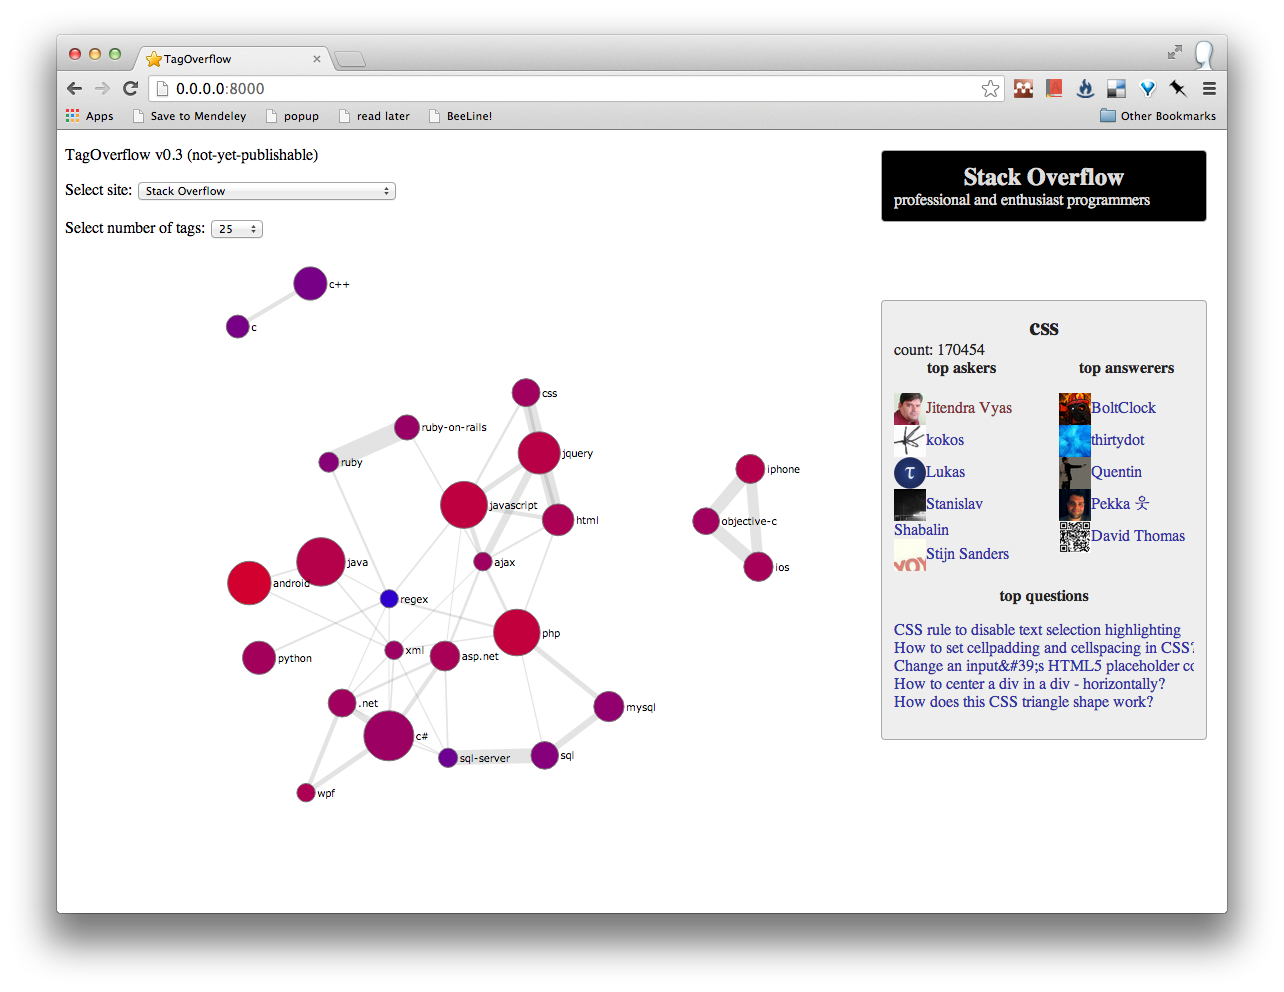
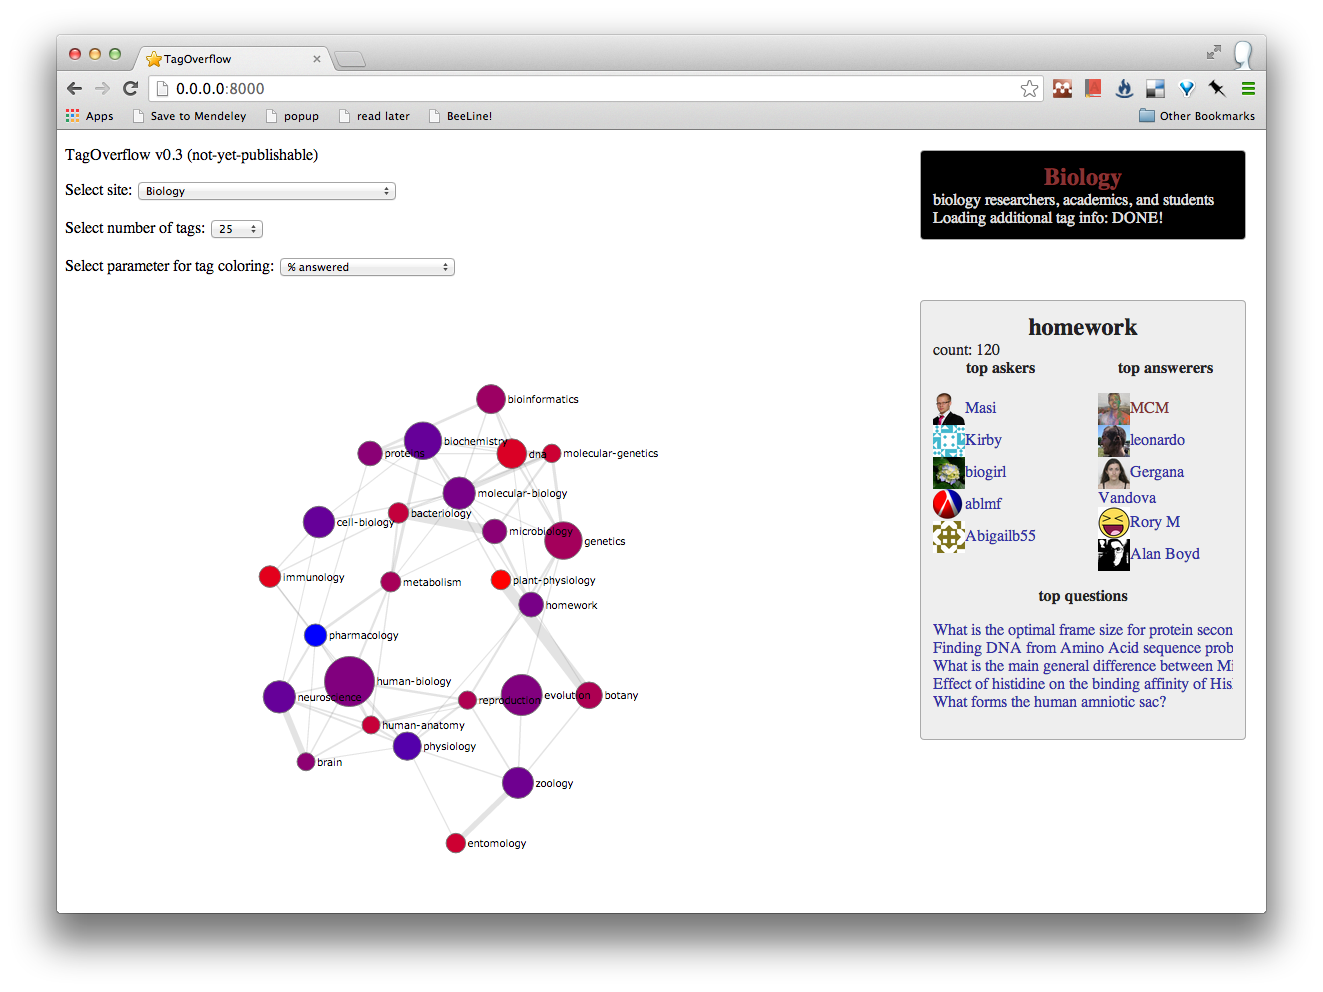
asynch calls: much faster and with progress bar

diff --git a/se_tags.js b/se_tags.js
@@ -193,9 +193,16 @@ var SeDataLoaderPerSite = function(siteName, tagLimit){
   // this.status = "Initializing...";
   this.siteName = siteName;
   this.tagLimit = tagLimit;
-  this.siteStats = fetchSiteStats(siteName)[0];
+  this.siteStats = null;
 
-  var nodes = fetchPopularTags(siteName, tagLimit);
+  this.run = function(){
+    this.siteStats = fetchSiteStats(siteName)[0];
+    $(".site_info #title").html(sitesDict[siteName].name);
+    $(".site_info #dscr").html(sitesDict[siteName].audience);
+    $(".site_info a").attr("href",sitesDict[siteName].site_url);
+    this.retriveTags();
+    this.retriveRelatedTags();
+  }
 
   this.tags = [];
   this.tagsDict = {};
@@ -221,7 +228,7 @@ var SeDataLoaderPerSite = function(siteName, tagLimit){
                    {site: siteName},
                    tagLimit,
                    this.putRelatedTagInDict,
-                   [tagName, this.relatedTagDict, this.tags.length]);
+                   [tagName, this.relatedTagDict, this.tags.length, this]);
     }
   };
 
@@ -239,15 +246,16 @@ var SeDataLoaderPerSite = function(siteName, tagLimit){
     }
   };
 
-  this.putRelatedTagInDict = function(x, tagName, targetDict, tagsLength){
+  this.putRelatedTagInDict = function(x, tagName, targetDict, tagsLength, that){
     targetDict[tagName] = x.items;
     var progress = Object.keys(targetDict).length;
     if (progress === tagsLength) {
-      console.log("Related tags: DONE!");
+      // console.log("Related tags: DONE!");
       $(".site_info #loading_status").html("Loading tag neighbors: DONE!");
-      // and we can fire something
+      that.processRelatedTags();  // onDone();  // this.processRelatedTags();
+      // f--king with references
     } else {
-      console.log("Related tags: " + progress + "/" + tagsLength);
+      // console.log("Related tags: " + progress + "/" + tagsLength);
       $(".site_info #loading_status").html("Loading tag neighbors: " + (progress) + "/" + tagsLength + "...");
     }
   };
@@ -256,11 +264,11 @@ var SeDataLoaderPerSite = function(siteName, tagLimit){
     targetDict[tagName] = x.items;
     var progress = Object.keys(targetDict).length;
     if (progress === tagsLength) {
-      console.log("Additional tag info: DONE!");
+      // console.log("Additional tag info: DONE!");
       $(".site_info #loading_status").html("Loading additional tag info: DONE!");
       // and we can fire something
     } else {
-      console.log("Additional tag info: " + progress + "/" + tagsLength);
+      // console.log("Additional tag info: " + progress + "/" + tagsLength);
       $(".site_info #loading_status").html("Loading additional tag info: " + (progress) + "/" + tagsLength + "...");
     }
   };
@@ -276,8 +284,6 @@ var SeDataLoaderPerSite = function(siteName, tagLimit){
       for (var i = 0; i < relatedTags.length; i++){
         var tag2info = relatedTags[i];
         var tag2 = tag2info.name;
-        console.log(tag1 + " " + tag2);
-        console.log(tag2 in this.tagsDict);
 
         if ((tag2 in this.tagsDict) && (tag1 < tag2))
         // isnt this order stuff making as loose some entries?
@@ -289,8 +295,7 @@ var SeDataLoaderPerSite = function(siteName, tagLimit){
                       target_name: tag2,
                       oe_ratio: (tag2info.count * noOfQuestions) / (tag1info.count * this.tagsDict[tag2].count)
                      };
-          console.log(link.count);
-          console.log(link.oe_ratio);
+          // console.log(link.oe_ratio);
           if ((link.count > 1) && (link.oe_ratio > 1))
           {
             this.links.push(link);
@@ -298,6 +303,7 @@ var SeDataLoaderPerSite = function(siteName, tagLimit){
         }
       }
     }
+    draw_graph(this);
   };
 
   // load auxiliary information

diff --git a/index.html b/index.html
@@ -85,34 +85,32 @@ d3.select("select#site_name").selectAll("option")
 $("select#site_name")[0].value = "stackoverflow";
 
 // window.onload=function(){draw_graph();};
-draw_graph();
+preGraphDrawing();
 
 d3.select("select#site_name").on("change", function(){
-  draw_graph();
+  preGraphDrawing();
 });
 
 d3.select("select#pageSize").on("change", function(){
-  draw_graph();
+  preGraphDrawing();
 });
 
 
-function draw_graph(){
+function preGraphDrawing(){
+  var siteName = $("select#site_name")[0].value;
+  var pageSize = parseInt($("select#pageSize")[0].value);
+  seSiteData = new SeDataLoaderPerSite(siteName, pageSize);
+  seSiteData.run();
+  // fires draw_graph() after doing necessary stuff
+}
+
+function draw_graph(seSiteData){
+
 d3.select("select#colorParameter").on("change", function(){
   colorize(graph.nodes, this.value);
 });
 
-var siteName = $("select#site_name")[0].value;
-var pageSize = parseInt($("select#pageSize")[0].value);
-//var colorParameter = $("select#colorParameter")[0].value;
-
-var graph = getNodesLinks(siteName, pageSize);
-
-var siteInfo = sitesDict[siteName];
- 
-$(".site_info #title").html(sitesDict[siteName].name);
-$(".site_info #dscr").html(sitesDict[siteName].audience);
-$(".site_info a").attr("href",siteInfo.site_url);
-
+var graph = {nodes: seSiteData.tags, links: seSiteData.links};
 
 d3.select("body").select("svg").remove();
 
@@ -231,7 +229,7 @@ var force = d3.layout.force()
     $(".tag_info #dscr").html("count: " + z.count);
 
 
-    var askers = fetchTopAskers(siteName, z.name);
+    var askers = fetchTopAskers(seSiteData.siteName, z.name);
 
     var d3asker = d3.select(".tag_info #askers ul").selectAll("li")
       .data(askers);
@@ -262,7 +260,7 @@ var force = d3.layout.force()
       .remove();
 
 
-    var answerers = fetchTopAnswerers(siteName, z.name);
+    var answerers = fetchTopAnswerers(seSiteData.siteName, z.name);
 
     var d3answerer = d3.select(".tag_info #answerers ul").selectAll("li")
       .data(answerers);
@@ -295,7 +293,7 @@ var force = d3.layout.force()
       .remove();
 
 
-    var questions = fetchTopQuestions(siteName, z.name);
+    var questions = fetchTopQuestions(seSiteData.siteName, z.name);
 
     var d3question = d3.select(".tag_info #questions ul").selectAll("li")
       .data(questions);
@@ -313,18 +311,10 @@ var force = d3.layout.force()
 
   };
 
-  
-  // how to make it going _after_ the main part?
+  // Below is asynch.
+  seSiteData.retriveLastQuestionsPerTag();
+  var questionsDict = seSiteData.lastQuestionsPerTagDict;
 
-  
-  var questionsDict = {};
-  for (var i = 0; i < graph.nodes.length; i++)
-  { 
-   tagName = graph.nodes[i].name;
-   questions = fetchLastQuestions(siteName, tagName);
-   questionsDict[tagName] = questions;
-  } 
-  console.log(questionsDict)
   
   function answered(questions) 
   {
